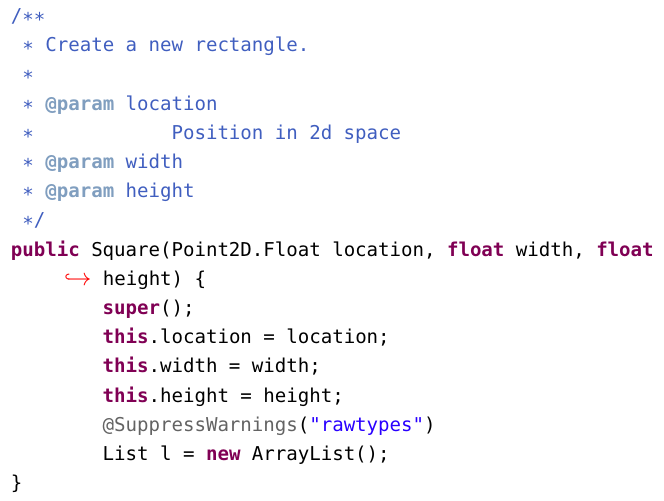
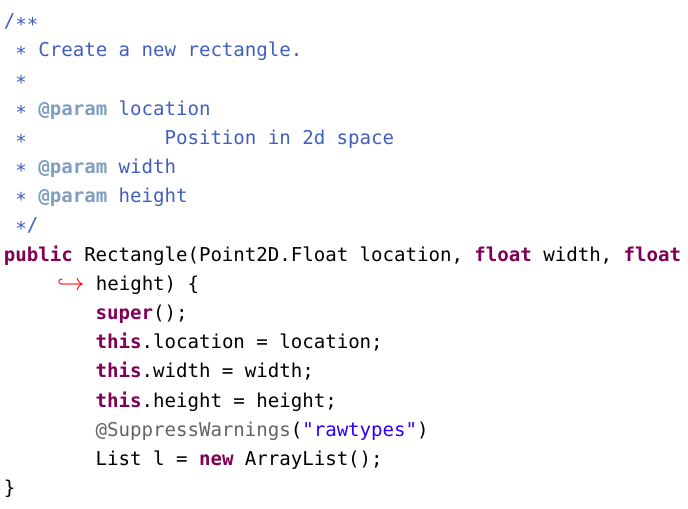
Added ignore file and updated example to compile.

diff --git a/Rectangle.java b/Rectangle.java
@@ -8,7 +8,7 @@ import java.util.List;
  * @author Mark Royer
  *
  */
-public class Square {
+public class Rectangle {
 
 	private float width;
 
@@ -27,7 +27,7 @@ public class Square {
 	 * @param width
 	 * @param height
 	 */
-	public Square(Point2D.Float location, float width, float height) {
+	public Rectangle(Point2D.Float location, float width, float height) {
 		super();
 		this.location = location;
 		this.width = width;
